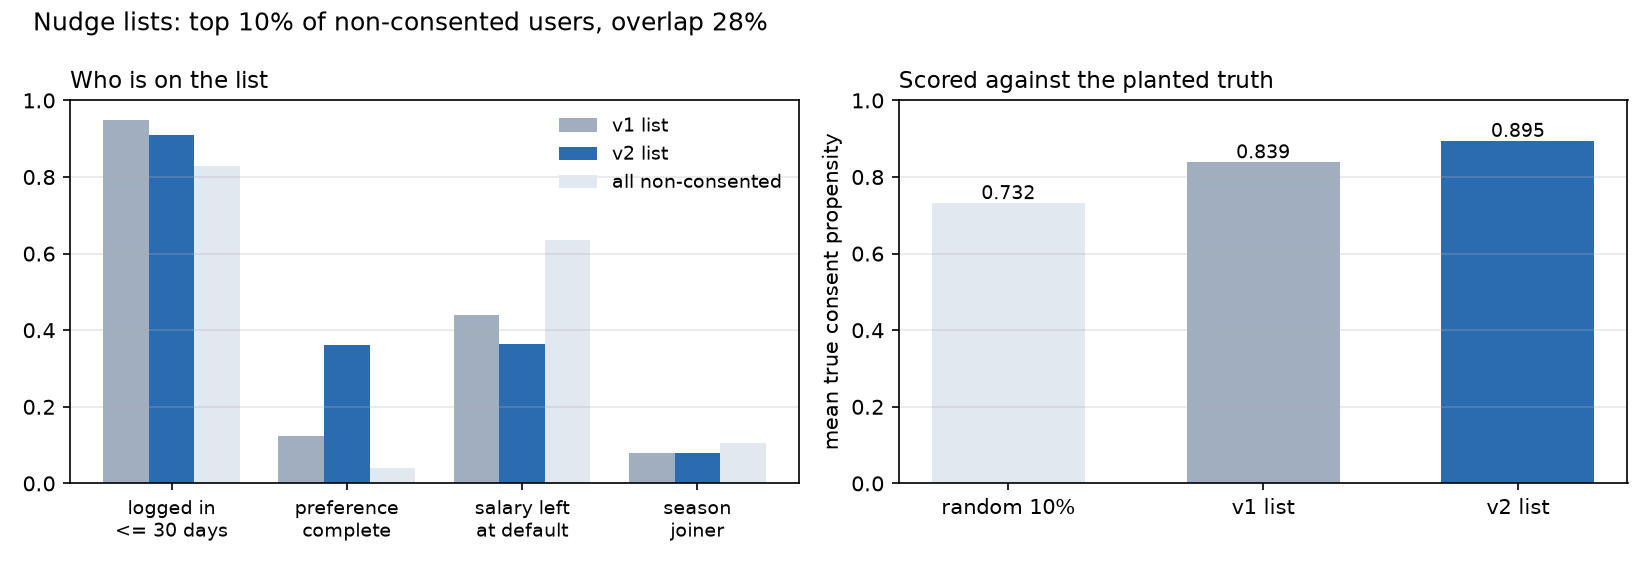
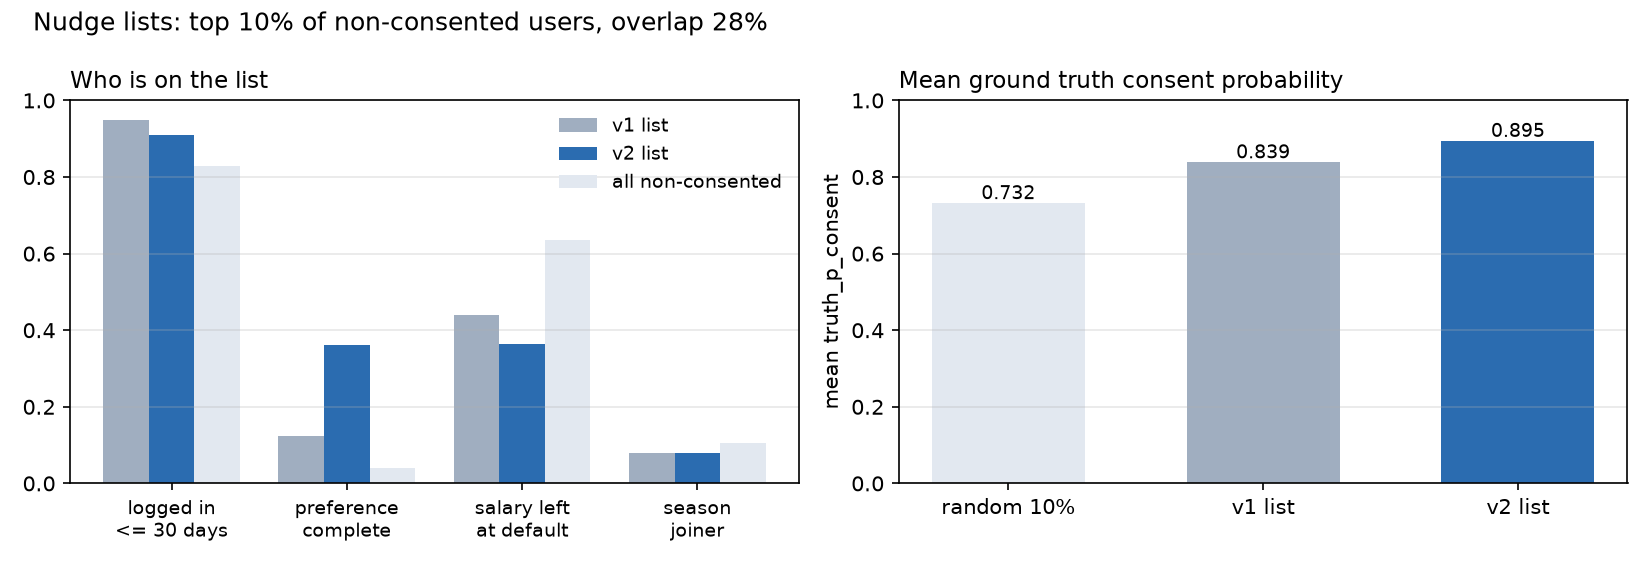
loyal: encode를 common.py 하나로, fig5와 fig6 라벨 표기

Changed region(s): [[0.4945, 0.2386, 0.5255, 0.7754], [0.5255, 0.1193, 0.8036, 0.1789]]

diff --git a/loyal-user-prediction-jobplatform/scripts/06_nudge_list_compare.py b/loyal-user-prediction-jobplatform/scripts/06_nudge_list_compare.py
@@ -1,14 +1,14 @@
 """넛지 리스트 비교
 
 운영 용도는 주간 리스트 (비동의 유저 상위 10%를 마케팅에). v1, v2의 LightGBM OOF 점수로 각각 만들고
-가상데이터에 넣은 동의 성향으로 평가
+ground truth 동의 확률(truth_p_consent)로 평가
 """
 
 import matplotlib
 import matplotlib.pyplot as plt
 import numpy as np
 import pandas as pd
-from common import CAT_COLS, DATA, FIG, NOTEBOOK_FEATURES, PREF_FEATURES, RES, TARGET
+from common import DATA, FIG, NOTEBOOK_FEATURES, PREF_FEATURES, RES, TARGET, encode
 from lightgbm import LGBMClassifier
 from sklearn.metrics import roc_auc_score
 from sklearn.model_selection import StratifiedKFold, cross_val_predict
@@ -16,14 +16,6 @@ from sklearn.model_selection import StratifiedKFold, cross_val_predict
 matplotlib.use("Agg")
 
 TOP = 0.10
-
-
-def encode(df, cols):
-    cats = [c for c in cols if c in CAT_COLS]
-    X = pd.get_dummies(df[cols], columns=cats, dtype=int)
-    X.columns = [c.replace(" ", "_") for c in X.columns]
-    return X
-
 
 users = pd.read_csv(DATA / "users.csv")
 v1 = pd.read_csv(DATA / "features_v1_snapshot.csv")
@@ -39,7 +31,7 @@ for name, df, cols in [("v1", v1, NOTEBOOK_FEATURES), ("v2", v2, NOTEBOOK_FEATUR
 
 oracle = roc_auc_score(y, users["truth_p_consent"].values)
 print(
-    f"oracle AUC (true propensity): {oracle:.4f}   v1 OOF AUC {roc_auc_score(y, scores['v1']):.4f}   "
+    f"oracle AUC (ground truth): {oracle:.4f}   v1 OOF AUC {roc_auc_score(y, scores['v1']):.4f}   "
     f"v2 OOF AUC {roc_auc_score(y, scores['v2']):.4f}"
 )
 pd.DataFrame(
@@ -119,8 +111,8 @@ axes[1].bar(["random 10%", "v1 list", "v2 list"], vals, color=["#e2e8f0", "#a0ae
 for i, v in enumerate(vals):
     axes[1].text(i, v + 0.01, f"{v:.3f}", ha="center", fontsize=9)
 axes[1].set_ylim(0, 1)
-axes[1].set_ylabel("mean true consent propensity")
-axes[1].set_title("Scored against the planted truth", loc="left", fontsize=11)
+axes[1].set_ylabel("mean truth_p_consent")
+axes[1].set_title("Mean ground truth consent probability", loc="left", fontsize=11)
 axes[1].grid(axis="y", alpha=0.3)
 fig.suptitle(f"Nudge lists: top 10% of non-consented users, overlap {overlap:.0%}", x=0.02, ha="left", fontsize=12)
 fig.tight_layout()

diff --git a/loyal-user-prediction-jobplatform/scripts/05_compare_models.py b/loyal-user-prediction-jobplatform/scripts/05_compare_models.py
@@ -12,7 +12,7 @@ import time
 import matplotlib
 import matplotlib.pyplot as plt
 import pandas as pd
-from common import CAT_COLS, DATA, FIG, NOTEBOOK_FEATURES, PREF_FEATURES, RES, TARGET
+from common import DATA, FIG, NOTEBOOK_FEATURES, PREF_FEATURES, RES, TARGET, encode
 from lightgbm import LGBMClassifier
 from sklearn.ensemble import RandomForestClassifier
 from sklearn.linear_model import LogisticRegression
@@ -40,15 +40,6 @@ MODELS = {  # 파라미터는 원본 노트북 값
     ),
 }
 SCORING = {"Accuracy": "accuracy", "AUC": "roc_auc", "Recall": "recall", "Prec.": "precision", "F1": "f1"}
-
-
-def encode(df, cols):
-    X = df[cols].copy()
-    cats = [c for c in cols if c in CAT_COLS]
-    X = pd.get_dummies(X, columns=cats, drop_first=False, dtype=int)
-    X.columns = [c.replace(" ", "_") for c in X.columns]
-    return X
-
 
 rows, holdout, importances = [], [], {}
 for vname, (fname, cols) in VARIANTS.items():
@@ -99,9 +90,7 @@ print("\n", comp.round(4).to_string(index=False))
 print("\nhold-out (LightGBM):\n", pd.DataFrame(holdout).round(4).to_string(index=False))
 
 fig, axes = plt.subplots(1, 2, figsize=(12, 5.2), sharex=False)
-for ax, vname, title in zip(
-    axes, ["v1_asis", "v2_pref"], ["v1 snapshot (as-was)", "v2 time cut (+ preference fields)"]
-):
+for ax, vname, title in zip(axes, ["v1_asis", "v2_pref"], ["v1 snapshot (as-was)", "v2 cutoff (+ preference fields)"]):
     top = importances[vname].head(10)[::-1]
     ax.hlines(top.index, 0, top.values, color="#2b6cb0", lw=1.5)
     ax.plot(top.values, top.index, "o", color="#2b6cb0")

diff --git a/loyal-user-prediction-jobplatform/scripts/09_leakage_anatomy.py b/loyal-user-prediction-jobplatform/scripts/09_leakage_anatomy.py
@@ -1,12 +1,12 @@
 """leakage 해부. 그림 7~11 데이터. pipeline은 안 바꾸고 data/와 v1, v2 테이블만 읽음
 
-- 기준일 주변 로그인 확률, 유저 12명 타임라인, OOF 점수와 ROC, 점수 분위별 동의 성향, v1 x v2 사분면
+- 기준일 주변 로그인 확률, 유저 12명 타임라인, OOF 점수와 ROC, 점수 분위별 ground truth 동의 확률, v1 x v2 사분면
 - 점수를 쓰는 셋은 06 결과와 assert로 대조 (같은 CV, seed). 캡션 숫자는 leakage_anatomy_summary.csv
 """
 
 import numpy as np
 import pandas as pd
-from common import CAT_COLS, DATA, N_DAYS, NOTEBOOK_FEATURES, PREF_FEATURES, RES, SEED, TARGET
+from common import DATA, N_DAYS, NOTEBOOK_FEATURES, PREF_FEATURES, RES, SEED, TARGET, encode
 from lightgbm import LGBMClassifier
 from sklearn.metrics import roc_auc_score, roc_curve
 from sklearn.model_selection import StratifiedKFold, cross_val_predict
@@ -79,14 +79,6 @@ for u in sample:
     )
 pd.DataFrame(rows).to_csv(RES / "timeline_sample.csv", index=False)
 print("2. timeline_sample.csv")
-
-
-def encode(df, cols):
-    cats = [c for c in cols if c in CAT_COLS]
-    X = pd.get_dummies(df[cols], columns=cats, dtype=int)
-    X.columns = [c.replace(" ", "_") for c in X.columns]
-    return X
-
 
 cv = StratifiedKFold(n_splits=5, shuffle=True, random_state=123)
 scores = {}

diff --git a/loyal-user-prediction-jobplatform/scripts/07_cutoff_sweep.py b/loyal-user-prediction-jobplatform/scripts/07_cutoff_sweep.py
@@ -9,7 +9,7 @@ import json
 
 import numpy as np
 import pandas as pd
-from common import CAT_COLS, DATA, N_DAYS, NOTEBOOK_FEATURES, PREF_FEATURES, RES, TARGET
+from common import DATA, N_DAYS, NOTEBOOK_FEATURES, PREF_FEATURES, RES, TARGET, encode
 from features import build_features, load
 from lightgbm import LGBMClassifier
 from sklearn.metrics import roc_auc_score
@@ -19,13 +19,6 @@ from sklearn.model_selection import StratifiedKFold, cross_val_predict
 OFFSETS = [-30, -14, -7, -3, -1, 0, 1, 2, 3, 5, 7, 14, 30, 60, 90, 180, 365, "snapshot"]
 COLS = NOTEBOOK_FEATURES + PREF_FEATURES
 TOP_N = 5
-
-
-def encode(df, cols):
-    cats = [c for c in cols if c in CAT_COLS]
-    X = pd.get_dummies(df[cols], columns=cats, dtype=int)
-    X.columns = [c.replace(" ", "_") for c in X.columns]
-    return X
 
 
 def make_model():

diff --git a/loyal-user-prediction-jobplatform/scripts/common.py b/loyal-user-prediction-jobplatform/scripts/common.py
@@ -89,3 +89,11 @@ def day_index(ts):
 
 
 N_DAYS = day_index(SNAPSHOT) + 1
+
+
+def encode(df, cols):
+    """범주형 열 one-hot. 05, 06, 07, 09 공용"""
+    cats = [c for c in cols if c in CAT_COLS]
+    X = pd.get_dummies(df[cols], columns=cats, dtype=int)
+    X.columns = [c.replace(" ", "_") for c in X.columns]
+    return X

diff --git a/loyal-user-prediction-jobplatform/README.md b/loyal-user-prediction-jobplatform/README.md
@@ -24,7 +24,7 @@ Python 3.14, numpy 2.5, pandas 3.0, scikit-learn 1.9, LightGBM 4.7, XGBoost 3.4,
 | 03 | v1 snapshot feature (원본 노트북 구조) | `data/features_v1_snapshot.csv` |
 | 04 | v2 cutoff feature (타깃 결정 직전) | `data/features_v2_timecut.csv` |
 | 05 | 95/5 split 후 10-fold CV. LR, RF, XGBoost, LightGBM x v1_asis / v1_pref / v2_pref | `model_comparison.csv`, `importance_*.csv`, `fig4~5` |
-| 06 | 넛지 리스트 (비동의 상위 10%) 두 버전을 넣어 둔 동의 성향으로 평가 | `oof_auc_vs_oracle.csv`, `nudge_list_*.csv`, `fig6` |
+| 06 | 넛지 리스트 (비동의 상위 10%) 두 버전을 ground truth 동의 확률로 평가 | `oof_auc_vs_oracle.csv`, `nudge_list_*.csv`, `fig6` |
 | 07 | cutoff를 동의일 기준 -30일~+365일, snapshot으로 옮기며 AUC와 상위 feature 기록 | `cutoff_sweep.csv`, `cutoff_sweep.json` (사이트 `src/data/cutoff-sweep.json`) |
 | 08 | 그림 1~6 사이트 톤. fig4, fig5는 재설계 | `outputs/figures/site/fig1~6.webp` |
 | 09 | 그림 7~11 데이터. 동의 전후 로그인, 타임라인 12명, OOF 점수와 ROC, 분위와 사분면. 06과 assert 대조 | `login_around_consent.csv`, `oof_scores.csv`, `leakage_anatomy_summary.csv` 등 |
@@ -37,7 +37,7 @@ Python 3.14, numpy 2.5, pandas 3.0, scikit-learn 1.9, LightGBM 4.7, XGBoost 3.4,
 ## 확인할 숫자
 
 - 01: 동의율 0.806 (30,898 / 38,355). 생성기 절편을 이 값에 맞춰 풀었으므로 여기서 벗어나면 생성기가 달라진 것
-- 05: v1_asis LightGBM 10-fold AUC 0.944, v2_pref 0.687. 앞의 것이 ground truth 확률의 AUC 0.716보다 높은 게 leakage 증거, 뒤의 것이 그 아래 붙는 게 정상
+- 05: v1_asis LightGBM 10-fold AUC 0.944, v2_pref 0.687. 앞의 것은 ground truth 확률의 AUC 0.716보다 높아서 leakage, 뒤의 것은 그 아래
 - 06: oracle 0.716, v1 OOF 0.944, v2 OOF 0.687. 두 리스트 겹침 28.1%, 상위 10%를 뽑아도 열에 일곱은 다른 사람
 - 06: 선호 정보 빈 유저(연봉 기본값 또는 복지 5개 미만) 7,165명 안에서 같은 745명을 뽑으면 v2 0.859, v1 0.821, 무작위 0.725 (`nudge_list_pref_empty.csv`). 비동의 전체에서 뽑는 위의 비교와 모집단만 다름
 
@@ -53,7 +53,7 @@ Python 3.14, numpy 2.5, pandas 3.0, scikit-learn 1.9, LightGBM 4.7, XGBoost 3.4,
 
 - 동의 후 로그인 증가 (01의 `after` 마스크 2.2배 + 결과표 확인 burst). 동의 다음 날 로그인 확률 0.775 vs 비동의 0.103, cutoff일이 동의일을 넘는 순간 AUC 0.69 -> 0.88 (`cutoff_sweep.csv`)
 - 시즌 가입자. 공채 시즌 직전 가입자는 한 번 지원하고 떠남, 가입 월이 그 proxy (`journey_dormancy.csv`, fig3)
-- 선호 정보 완성이 진짜 원인. 연봉 기본값이 아니고 복지 5개 이상이면 동의 logit +1.30. v2에서 상위로 올라옴 (`importance_v2_pref.csv`)
+- 선호 정보 완성 -> 동의. 연봉 기본값이 아니고 복지 5개 이상이면 동의 logit +1.30. v2에서 상위로 올라옴 (`importance_v2_pref.csv`)
 
 oracle은 `truth_p_consent`로 순위를 매긴 AUC.
 
